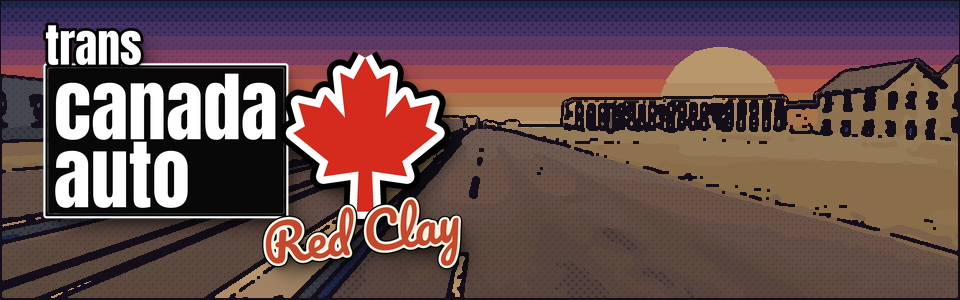
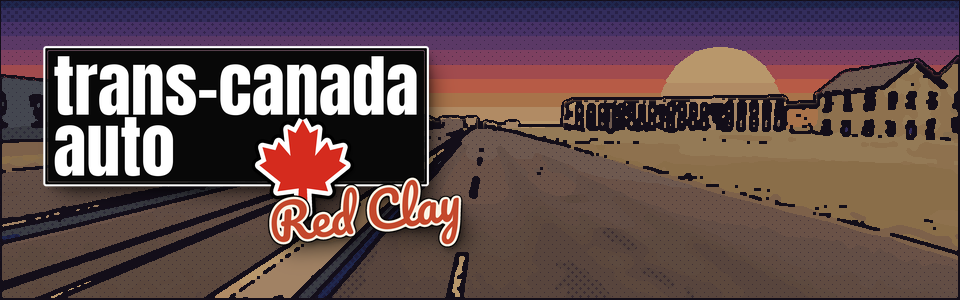
Wordmark: trans-canada as one word, leaf in the box
'trans' on its own line over the box put the weight on the wrong word.
Now 'trans-canada' and 'auto' sit together in the black box, with the
maple leaf in the room after 'auto', hanging off the bottom edge, and Red
Clay under it. The other two arrangements stay in the script behind
WORDMARK_LAYOUT. All the branding redrawn with it.

Claude-Session: https://claude.ai/code/session_0115Cjrb6wYsxvNAt32qgVuD

Changed region(s): [[0.0312, 0.06, 0.5, 0.93]]

diff --git a/tools/make_branding.py b/tools/make_branding.py
@@ -3,8 +3,8 @@
 game icon and the itch.io page images.
 
 The look is a loving send-up of the big crime-sandbox games: a stacked,
-lowercase, heavy-condensed name in a black box ("trans / canada auto", with a
-maple leaf where the sequel number would go), the map's name in a slanted
+lowercase, heavy-condensed name in a black box ("trans-canada / auto", with
+a maple leaf where the sequel number would go), the map's name in a slanted
 script underneath, and loading screens of tilted comic-book panels over a
 screen-printed sunset. The panels are the game's own screenshots
 (branding/screens/), inked and halftoned here, with captions in our own voice.
@@ -151,48 +151,90 @@ def wordmark(width, sub="Red Clay"):
     return img.resize((width, int(img.height * width / img.width)), Image.LANCZOS)
 
 
-def _draw_wordmark(sub):
-    """The name the way the box art does it: 'trans' over a black box with
-    'canada' and 'auto' stacked in it, a maple leaf where the sequel number
-    goes, and the map's name in slanted script under it. Transparent."""
+# Which wordmark layout to draw (see _draw_wordmark): "inbox", "stack" or "over".
+WORDMARK_LAYOUT = "inbox"
+
+
+def _draw_wordmark(sub, layout=None):
+    """The name the way the box art does it: a black box with the name in
+    heavy lowercase, a maple leaf where the sequel number would go, and the
+    map's name in slanted script under it. Transparent.
+
+    layout "stack": 'trans-canada' over 'auto' in the box, leaf outside.
+    layout "inbox": the same, with the leaf in the box beside 'auto'.
+    layout "over":  'trans-canada' over the box, 'auto' big in it, leaf outside."""
+    layout = layout or WORDMARK_LAYOUT
     S = 2  # drawn at twice the design size and shrunk, for smooth edges
-    W, H = 1900 * S, 1000 * S
+    W, H = 2600 * S, 1200 * S
     img = Image.new("RGBA", (W, H), (0, 0, 0, 0))
     d = ImageDraw.Draw(img)
-    big = font("anton", 250 * S)
-    small = font("anton", 150 * S)
-    bx, by, pad, gap = 30 * S, 165 * S, 34 * S, 6 * S
-    b1 = d.textbbox((0, 0), "canada", font=big)
-    b2 = d.textbbox((0, 0), "auto", font=big)
-    lh = b1[3] - b1[1]
-    bw = max(b1[2] - b1[0], b2[2] - b2[0]) + 2 * pad
-    bh = lh * 2 + gap + 2 * pad
+    bx, by, pad, gap = 30 * S, 200 * S, 34 * S, 6 * S
 
-    box = Image.new("RGBA", (W, H), (0, 0, 0, 0))
-    bd = ImageDraw.Draw(box)
-    bd.rounded_rectangle([bx, by, bx + bw, by + bh], radius=10 * S, fill=(8, 8, 8, 255), outline=WHITE, width=7 * S)
-    bd.rounded_rectangle([bx + 14 * S, by + 14 * S, bx + bw - 14 * S, by + bh - 14 * S], radius=6 * S,
-                         outline=(255, 255, 255, 60), width=2 * S)
-    bd.text((bx + pad - b1[0], by + pad - b1[1]), "canada", font=big, fill=WHITE)
-    bd.text((bx + pad - b2[0], by + pad + lh + gap - b1[1]), "auto", font=big, fill=WHITE)
-    _with_shadow(img, box, (10 * S, 14 * S), 14 * S)
+    def box_layer(x0, y0, x1, y1):
+        layer = Image.new("RGBA", (W, H), (0, 0, 0, 0))
+        bd = ImageDraw.Draw(layer)
+        bd.rounded_rectangle([x0, y0, x1, y1], radius=10 * S, fill=(8, 8, 8, 255), outline=WHITE, width=7 * S)
+        bd.rounded_rectangle([x0 + 14 * S, y0 + 14 * S, x1 - 14 * S, y1 - 14 * S], radius=6 * S,
+                             outline=(255, 255, 255, 60), width=2 * S)
+        return layer, bd
 
-    bt = d.textbbox((0, 0), "trans", font=small)
-    t = Image.new("RGBA", (W, H), (0, 0, 0, 0))
-    ImageDraw.Draw(t).text((bx + 6 * S - bt[0], by - bt[3] + 6 * S), "trans", font=small, fill=WHITE,
-                           stroke_width=9 * S, stroke_fill=BLACK)
-    _with_shadow(img, t, (8 * S, 10 * S), 10 * S)
-
-    lsz = bh * 1.08
-    lx = bx + bw - 22 * S
-    ly = by + (bh - lsz * 0.92) / 2 - 20 * S
-    _with_shadow(img, _leaf_layer((W, H), lx, ly, lsz), (10 * S, 14 * S), 14 * S)
+    if layout in ("stack", "inbox"):
+        big = font("anton", 230 * S)
+        b1 = d.textbbox((0, 0), "trans-canada", font=big)
+        b2 = d.textbbox((0, 0), "auto", font=big)
+        lh = b1[3] - b1[1]
+        bw = (b1[2] - b1[0]) + 2 * pad
+        bh = lh * 2 + gap + 2 * pad
+        box, bd = box_layer(bx, by, bx + bw, by + bh)
+        bd.text((bx + pad - b1[0], by + pad - b1[1]), "trans-canada", font=big, fill=WHITE)
+        bd.text((bx + pad - b2[0], by + pad + lh + gap - b1[1]), "auto", font=big, fill=WHITE)
+        _with_shadow(img, box, (10 * S, 14 * S), 14 * S)
+        if layout == "stack":
+            lsz = bh * 1.08
+            lx = bx + bw - 22 * S
+            ly = by + (bh - lsz * 0.92) / 2 - 20 * S
+            _with_shadow(img, _leaf_layer((W, H), lx, ly, lsz), (10 * S, 14 * S), 14 * S)
+            sub_right = lx + lsz + 20 * S
+        else:
+            # the leaf fills the room left of the second line, past 'auto'
+            # (kept below the first line, hanging off the bottom of the box)
+            lsz = lh * 1.7
+            room_l = bx + pad + (b2[2] - b2[0]) + 40 * S
+            lx = room_l + (bx + bw - pad - room_l - lsz) * 0.5
+            ly = by + pad + lh + gap + 10 * S
+            _with_shadow(img, _leaf_layer((W, H), lx, ly, lsz), (6 * S, 8 * S), 8 * S)
+            sub_right = bx + bw + 90 * S
+        sub_y = by + bh - (60 if layout == "stack" else 20) * S
+    else:  # "over"
+        big = font("anton", 330 * S)
+        b2 = d.textbbox((0, 0), "auto", font=big)
+        lh = b2[3] - b2[1]
+        bw = (b2[2] - b2[0]) + 2 * pad + 20 * S
+        bh = lh + 2 * pad
+        top = "trans-canada"
+        tf = font("anton", 150 * S)
+        bt = d.textbbox((0, 0), top, font=tf)
+        # stretch 'auto' box to the width of the name above it
+        bw = max(bw, bt[2] - bt[0] + 12 * S)
+        box, bd = box_layer(bx, by, bx + bw, by + bh)
+        bd.text((bx + (bw - (b2[2] - b2[0])) / 2 - b2[0], by + pad - b2[1]), "auto", font=big, fill=WHITE)
+        _with_shadow(img, box, (10 * S, 14 * S), 14 * S)
+        t = Image.new("RGBA", (W, H), (0, 0, 0, 0))
+        ImageDraw.Draw(t).text((bx + 6 * S - bt[0], by - bt[3] + 6 * S), top, font=tf, fill=WHITE,
+                               stroke_width=9 * S, stroke_fill=BLACK)
+        _with_shadow(img, t, (8 * S, 10 * S), 10 * S)
+        lsz = bh * 1.15
+        lx = bx + bw - 22 * S
+        ly = by + (bh - lsz * 0.92) / 2 - 30 * S
+        _with_shadow(img, _leaf_layer((W, H), lx, ly, lsz), (10 * S, 14 * S), 14 * S)
+        sub_right = lx + lsz + 20 * S
+        sub_y = by + bh - 50 * S
 
     if sub:
         sf = font("script", 165 * S)
         sb = d.textbbox((0, 0), sub, font=sf)
-        sx = lx + lsz - (sb[2] - sb[0]) + 20 * S
-        sy = by + bh - 60 * S
+        sx = sub_right - (sb[2] - sb[0])
+        sy = sub_y
         s = Image.new("RGBA", (W, H), (0, 0, 0, 0))
         ImageDraw.Draw(s).text((sx, sy), sub, font=sf, fill=CLAY)
         s = s.rotate(7, resample=Image.BICUBIC, center=(sx, sy))

diff --git a/README.md b/README.md
@@ -62,9 +62,10 @@ itch.io so the town can be built on background threads.
 ## Branding
 
 The name is a send-up of a certain crime-sandbox series, and the branding
-plays along in our own way. The wordmark stacks a lowercase, heavy "trans"
-over a black box with "canada auto" in it, a maple leaf where the sequel
-number would go, and **Red Clay** in slanted script under it. The loading
+plays along in our own way. The wordmark is "trans-canada" over "auto" in
+heavy lowercase in a black box, a maple leaf where the sequel number would
+go, and **Red Clay** in slanted script under it (`WORDMARK_LAYOUT` in the
+script also has two other arrangements). The loading
 screens are tilted comic-book panels over screen-printed sunsets: the
 game's own screenshots, inked and halftoned, with captions like "Nobody
 locks their car here." While the town builds, the first one (the same
